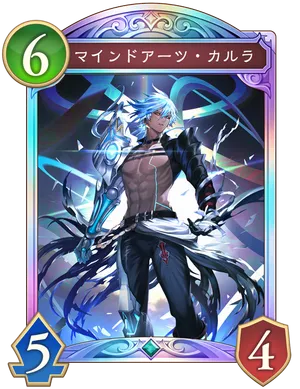
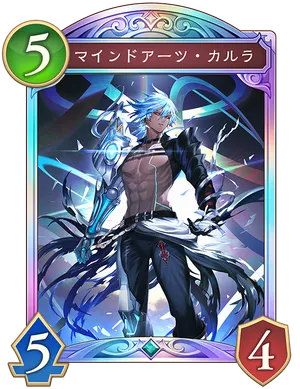
fix: 調整前のカード画像が使われ続ける問題を修正
カード画像はバランス調整で差し替わり、そのとき card_image_hash も変わる。
しかし scraper の download_images.js は `<cardId>.png` というファイル名で保存し、
ファイルの存在だけでスキップを判定するため、差し替わっても古い画像が残り続けていた。
826枚中740枚が7月以前に取得したままだった。

buildImages.ts を作り直し、public/cards/manifest.json に生成時の imageHash を
記録して、ハッシュが変わったカードだけ公式から取り直すようにした。
scraper の images/ には依存しない。

全件取り直した結果、実際に8枚が調整前の画像だった:
  純白の聖女・ジャンヌ / アーティファクトカタパルト / マインドアーツ・カルラ /
  返還の剣閃 / 壮美なる明越花 / 充つ《恋人と節制》・ミルティオ＆ルーゼン /
  旧き天眼・ビバティー / ラブリーマスターピース

あわせて、生成サイズの集計が Promise.all 内の共有変数加算で
競合して失われていたのを修正（22MB を 4.8MB と誤表示していた）。

diff --git a/scripts/buildImages.ts b/scripts/buildImages.ts
@@ -1,107 +1,151 @@
 /**
- * カード画像の縮小WebP生成スクリプト。
+ * カード画像の取得と縮小WebP生成。
  *
- * shadowverse-scraper が落とした原寸PNG（530x687 / 平均562KB）を、
- * 一覧表示に必要なサイズまで縮小して public/cards/<cardId>.webp に書き出す。
+ * 公式のカード画像は URL にハッシュ（card_image_hash）を含む。
+ * バランス調整でスタッツや効果テキストが変わると画像が差し替わり、ハッシュも変わる。
  *
- * 原寸をそのまま同梱すると全1459枚で786MB あり、GitHub Pages の公開サイト
- * 1GB 制限に対して現実的でない。カード詳細の拡大表示だけは公式CDNの原寸を使う
- * （src/components/CardImage.tsx のフォールバック）。
+ * scraper 側の download_images.js は `<cardId>.png` というファイル名で保存し、
+ * 「ファイルが存在すればスキップ」という判定なので、**画像が差し替わっても
+ * 古いものが残り続ける**。実際に調整前の画像が混ざっていた。
  *
- * 事前に scraper 側で画像を用意しておくこと:
- *   cd <scraper> && node download_images.js
+ * そこで生成済みWebPのハッシュを manifest に記録し、
+ * ハッシュが変わったカードだけ公式から取り直す。
  *
  * Usage:
- *   npm run sync:images
- *   SV_SCRAPER_IMAGES=/path/to/images npm run sync:images
+ *   npm run sync:images            # 差分だけ取得
+ *   npm run sync:images -- --all   # manifest を無視して全件取り直す
  */
 
-import { existsSync, mkdirSync, readFileSync, statSync, writeFileSync } from 'node:fs';
+import { existsSync, mkdirSync, readFileSync, writeFileSync } from 'node:fs';
 import { dirname, join, resolve } from 'node:path';
 import { fileURLToPath } from 'node:url';
 import sharp from 'sharp';
-import type { LiteCardDb } from '../src/data/cardTypes';
+import type { LiteCard, LiteCardDb } from '../src/data/cardTypes';
 
 const HERE = dirname(fileURLToPath(import.meta.url));
 const PROJECT_ROOT = resolve(HERE, '..');
 
-const DEFAULT_SCRAPER_IMAGES = resolve(
-  PROJECT_ROOT,
-  '..',
-  'シャドバ',
-  'shadowverse-scraper',
-  'images',
-);
-
-const SOURCE_DIR = process.env['SV_SCRAPER_IMAGES'] ?? DEFAULT_SCRAPER_IMAGES;
 const CARD_DB = join(PROJECT_ROOT, 'src', 'data', 'cards.json');
 const OUT_DIR = join(PROJECT_ROOT, 'public', 'cards');
+/** cardId → 生成時の imageHash。これで差し替えを検知する */
+const MANIFEST = join(OUT_DIR, 'manifest.json');
 
 /** 一覧タイルの実表示幅（CSS で最大104px、Retina を考慮して2倍強） */
 const TARGET_WIDTH = 300;
 const WEBP_QUALITY = 80;
 
-async function convert(sourcePath: string, outPath: string): Promise<number> {
-  const buffer = await sharp(sourcePath)
+/** 公式サーバーへの負荷を抑える。scraper と同じ水準に合わせている */
+const CONCURRENCY = 5;
+const DELAY_MS = 200;
+const MAX_RETRY = 3;
+
+const cardImageUrl = (hash: string): string =>
+  `https://shadowverse-wb.com/uploads/card_image/jpn/card/${hash}.png`;
+
+const sleep = (ms: number): Promise<void> => new Promise((r) => setTimeout(r, ms));
+
+function readManifest(useAll: boolean): Record<string, string> {
+  if (useAll || !existsSync(MANIFEST)) return {};
+  try {
+    return JSON.parse(readFileSync(MANIFEST, 'utf8')) as Record<string, string>;
+  } catch {
+    console.warn('manifest.json を読めませんでした。全件取り直します。');
+    return {};
+  }
+}
+
+async function fetchImage(hash: string): Promise<Buffer> {
+  let lastError: unknown;
+  for (let attempt = 1; attempt <= MAX_RETRY; attempt++) {
+    try {
+      const res = await fetch(cardImageUrl(hash));
+      if (!res.ok) throw new Error(`HTTP ${res.status}`);
+      return Buffer.from(await res.arrayBuffer());
+    } catch (error) {
+      lastError = error;
+      await sleep(DELAY_MS * attempt);
+    }
+  }
+  throw new Error(`取得に失敗: ${cardImageUrl(hash)} (${String(lastError)})`);
+}
+
+async function buildOne(card: LiteCard): Promise<number> {
+  const source = await fetchImage(card.imageHash);
+  const webp = await sharp(source)
     .resize({ width: TARGET_WIDTH, withoutEnlargement: true })
     .webp({ quality: WEBP_QUALITY })
     .toBuffer();
 
-  writeFileSync(outPath, buffer);
-  return buffer.byteLength;
+  writeFileSync(join(OUT_DIR, `${card.cardId}.webp`), webp);
+  return webp.byteLength;
 }
 
 async function main(): Promise<void> {
-  if (!existsSync(SOURCE_DIR)) {
-    console.error(`画像ディレクトリが見つかりません: ${SOURCE_DIR}`);
-    console.error('scraper 側で `node download_images.js` を実行してください。');
-    process.exit(1);
-  }
-
+  const useAll = process.argv.includes('--all');
   const db = JSON.parse(readFileSync(CARD_DB, 'utf8')) as LiteCardDb;
   mkdirSync(OUT_DIR, { recursive: true });
 
-  let converted = 0;
-  let skipped = 0;
-  let missing = 0;
-  let totalBytes = 0;
-  const missingSets = new Map<number, number>();
+  const manifest = readManifest(useAll);
 
-  for (const card of db.cards) {
-    const sourcePath = join(SOURCE_DIR, 'common', `${card.cardId}.png`);
-    const outPath = join(OUT_DIR, `${card.cardId}.webp`);
+  const targets = db.cards.filter((card) => {
+    if (card.imageHash === '') return false;
+    const built = manifest[String(card.cardId)];
+    // ハッシュが一致していて実ファイルもあるなら、取り直す必要はない
+    return built !== card.imageHash || !existsSync(join(OUT_DIR, `${card.cardId}.webp`));
+  });
 
-    if (!existsSync(sourcePath)) {
-      missing += 1;
-      missingSets.set(card.setId, (missingSets.get(card.setId) ?? 0) + 1);
-      continue;
-    }
-
-    // 変換済みで元画像より新しければ作り直さない
-    if (existsSync(outPath) && statSync(outPath).mtimeMs >= statSync(sourcePath).mtimeMs) {
-      skipped += 1;
-      totalBytes += statSync(outPath).size;
-      continue;
-    }
-
-    totalBytes += await convert(sourcePath, outPath);
-    converted += 1;
+  const refreshed = targets.filter((c) => manifest[String(c.cardId)] !== undefined).length;
+  console.log(`対象 ${db.cards.length} 枚 / 取得 ${targets.length} 枚（うち差し替え ${refreshed} 枚）`);
+  if (targets.length === 0) {
+    console.log('すべて最新です。');
+    return;
   }
 
-  console.log(`変換 ${converted} 枚 / スキップ ${skipped} 枚 / 元画像なし ${missing} 枚`);
-  console.log(`出力先 ${OUT_DIR}`);
-  console.log(`合計 ${(totalBytes / 1024 / 1024).toFixed(1)}MB`);
+  let done = 0;
+  let bytes = 0;
+  const failures: string[] = [];
 
-  if (missing > 0) {
-    console.log('');
-    console.log('元画像が無い弾（scraper で download_images.js を実行してください）:');
-    for (const [setId, count] of [...missingSets].sort((a, b) => a[0] - b[0])) {
-      console.log(`  ${setId} ${db.setNames[String(setId)] ?? ''}  ${count}枚`);
+  for (let i = 0; i < targets.length; i += CONCURRENCY) {
+    const chunk = targets.slice(i, i + CONCURRENCY);
+    // 並行実行なので、共有変数を直接加算せず戻り値で受け取る（加算が失われる）
+    const results = await Promise.all(
+      chunk.map(async (card) => {
+        try {
+          const size = await buildOne(card);
+          manifest[String(card.cardId)] = card.imageHash;
+          return size;
+        } catch (error) {
+          failures.push(`${card.cardId} ${card.name}: ${String(error)}`);
+          return 0;
+        }
+      }),
+    );
+    bytes += results.reduce((sum, n) => sum + n, 0);
+    done += chunk.length;
+
+    if (i % (CONCURRENCY * 20) === 0 || i + CONCURRENCY >= targets.length) {
+      const pct = Math.round((done / targets.length) * 100);
+      console.log(`  ${done}/${targets.length} (${pct}%)`);
     }
+    await sleep(DELAY_MS);
+  }
+
+  // 途中で失敗しても、成功したぶんは記録しておく
+  writeFileSync(MANIFEST, `${JSON.stringify(manifest, null, 0)}\n`, 'utf8');
+
+  console.log('');
+  console.log(`生成 ${done - failures.length} 枚 / ${(bytes / 1024 / 1024).toFixed(1)}MB`);
+  console.log(`出力先 ${OUT_DIR}`);
+
+  if (failures.length > 0) {
+    console.log('');
+    console.error(`取得できなかったカード ${failures.length} 件:`);
+    for (const f of failures.slice(0, 20)) console.error(`  ${f}`);
+    process.exitCode = 1;
   }
 }
 
 main().catch((error: unknown) => {
-  console.error('画像変換に失敗しました:', error);
+  console.error('画像生成に失敗しました:', error);
   process.exit(1);
 });

diff --git a/.claude/CLAUDE.md b/.claude/CLAUDE.md
@@ -167,7 +167,18 @@ SVCardEntry = { common: SVCardData, evo?: SVEvoData, specific_effects?: Specific
 - 一覧・デッキ構築・開封演出 → `public/cards/<cardId>.webp`（300px幅・q80）。**実測 735枚で20.6MB**
 - カード詳細の拡大表示のみ → `https://shadowverse-wb.com/uploads/card_image/jpn/card/<hash>.png`
 - **ファイル名は `imageHash` ではなく `cardId`**。scraper の `images/common/<cardId>.png` に合わせている
-- 生成は `npm run sync:images`（sharp を使用）。元画像が無い弾はスキップして弾別に報告する
+- 生成は `npm run sync:images`（sharp を使用）。**公式CDNから直接取得する**
+
+> **カード画像は差し替わる。** バランス調整でスタッツや効果テキストが変わると
+> 画像そのものが作り直され、`card_image_hash` も変わる。
+>
+> scraper の `download_images.js` は `<cardId>.png` というファイル名で保存し、
+> 「ファイルが存在すればスキップ」する。**ファイル名にハッシュが入らないので、
+> 画像が差し替わっても古いものが永久に残る**。実際に調整前の画像が混ざっていた。
+>
+> `buildImages.ts` は `public/cards/manifest.json` に cardId → imageHash を記録し、
+> **ハッシュが変わったカードだけ公式から取り直す**。scraper の images/ には依存しない。
+> 全件取り直したいときは `npm run sync:images -- --all`。
 - `CardImage.tsx` はローカルWebPを先に読み、404 のときだけ1回だけCDNへフォールバックする
 - **base64でJSONに埋め込まないこと**（33%肥大・ブラウザキャッシュが効かない・パースが重い）
 

diff --git a/README.md b/README.md
@@ -79,12 +79,15 @@ npm run deploy     # ビルドして gh-pages ブランチへ配信
 
 ```bash
 cd ../シャドバ/shadowverse-scraper
-node fetch_all_cards.js     # 公式から再取得
-node download_images.js     # 未取得の画像だけダウンロード
+node fetch_all_cards.js     # 公式からカードデータを再取得
 cd -
 npm run sync:cards          # → src/data/cards.json
-npm run sync:images         # → public/cards/*.webp
+npm run sync:images         # → public/cards/*.webp（公式CDNから直接取得）
 ```
+
+カード画像はバランス調整で差し替わり、そのとき `card_image_hash` も変わります。
+`sync:images` は `public/cards/manifest.json` に生成時のハッシュを記録し、
+**変わったカードだけ取り直します**。全件やり直すときは `npm run sync:images -- --all`。
 
 新しい弾が追加されても、対象弾は `card_set_id` から動的に決まるためコード変更は不要です。
 
